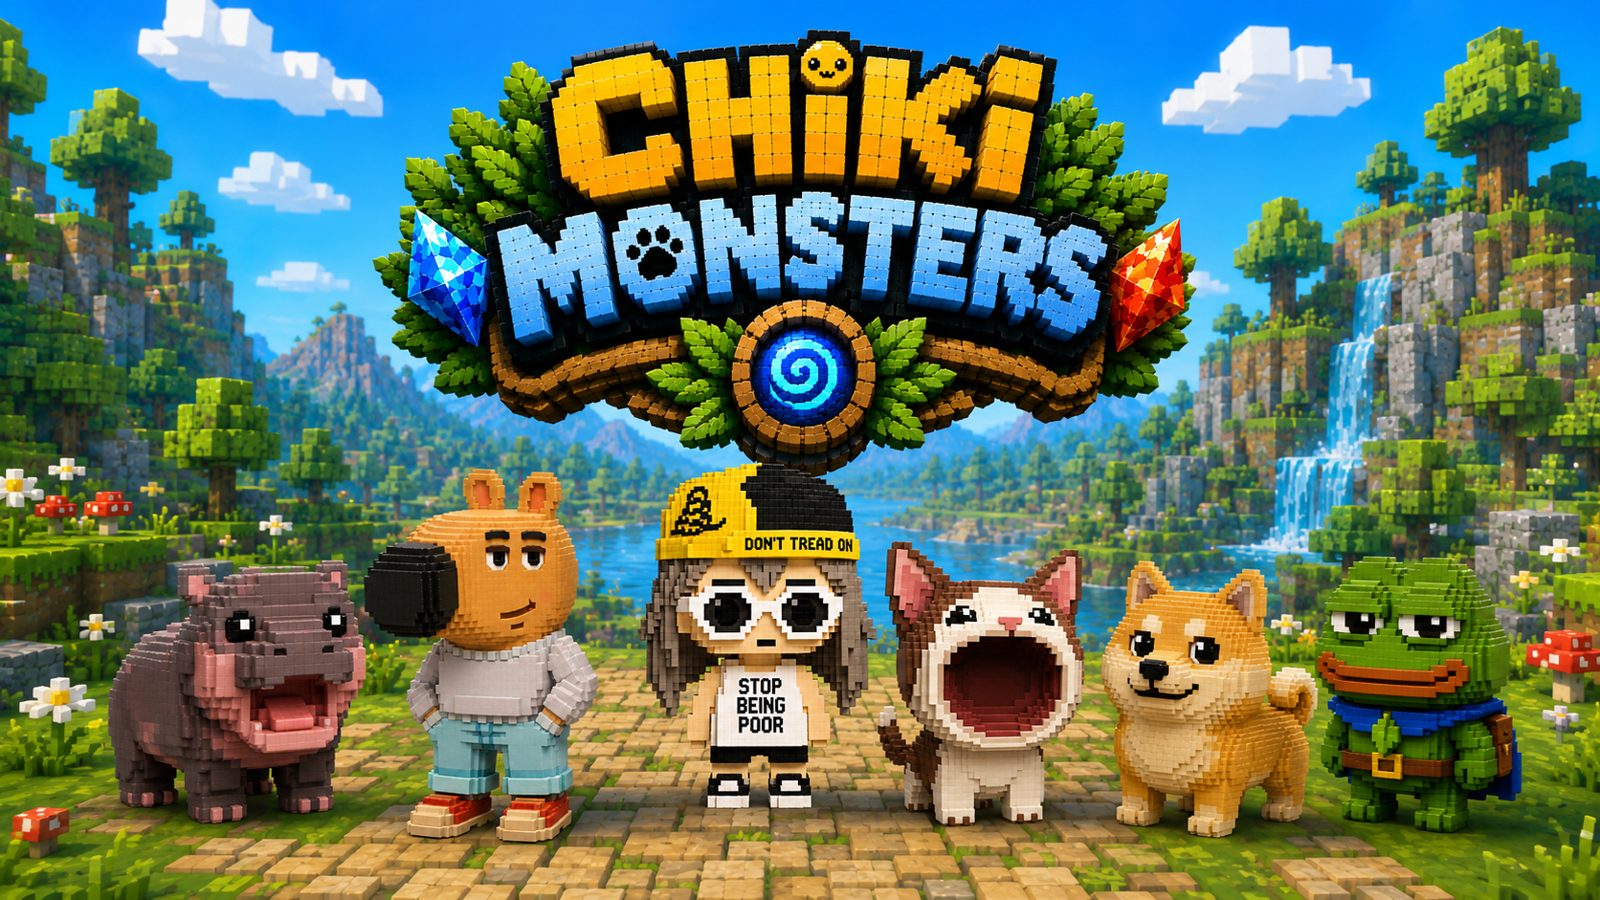
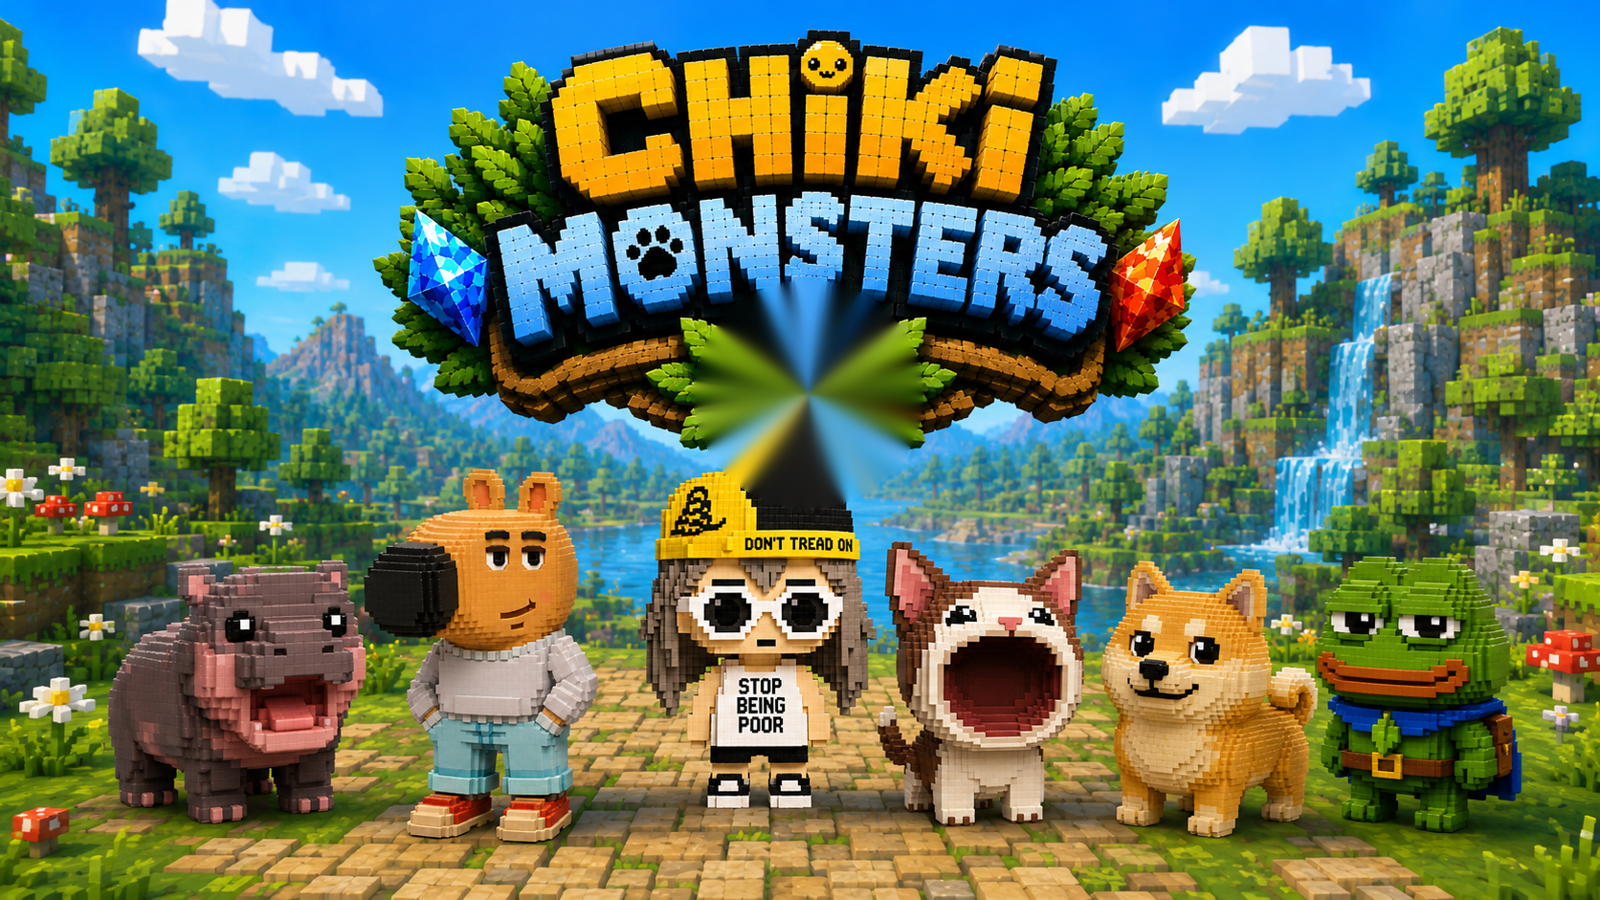
Add files via upload

Changed region(s): [[0.4375, 0.3111, 0.5938, 0.56]]

diff --git a/index.html b/index.html
@@ -11,7 +11,7 @@
   *{box-sizing:border-box;margin:0;padding:0}
   html,body{height:100%;overflow:hidden;background:#061426;font-family:'Nunito',system-ui,sans-serif;color:#fff}
   a{color:inherit;text-decoration:none}
-  #hero{position:fixed;inset:0;background:url("homepage-hero.png?v=meme5") center center/cover no-repeat;transition:opacity .6s}
+  #hero{position:fixed;inset:0;background:url("homepage-hero.png?v=meme6") center center/cover no-repeat;transition:opacity .6s}
 
   /* ---- vertical side tab bars ---- */
   .sidebar{position:fixed;top:43%;transform:translateY(-50%);z-index:30;transition:opacity .55s ease;   /* nudged a step up */
@@ -255,11 +255,11 @@
     var vw=innerWidth,vh=innerHeight,iw=probe.naturalWidth,ih=probe.naturalHeight;
     var s=Math.max(vw/iw,vh/ih),dw=iw*s,dh=ih*s,xOff=(vw-dw)/2,yOff=(vh-dh)/2;
     var cx=xOff+SW_X*dw, cy=yOff+SW_Y*dh;
-    var d=Math.max(48,0.115*dw);           /* token image sized to match the swirl emblem in the bg exactly */
+    var d=Math.max(44,0.085*dw);           /* token button: small coin sitting in the wreath (swirl painted out of bg) */
     btn.style.left=cx+"px"; btn.style.top=cy+"px"; btn.style.width=d+"px"; btn.style.height=d+"px";
     if(hint){ hint.style.left=cx+"px"; hint.style.top=(cy+d*0.62)+"px"; }   /* hint sits just below the token */
   }
-  probe.onload=place; probe.src="homepage-hero.png?v=meme5"; addEventListener("resize",place); setTimeout(place,60);
+  probe.onload=place; probe.src="homepage-hero.png?v=meme6"; addEventListener("resize",place); setTimeout(place,60);
 })();
 </script>
 <script>
